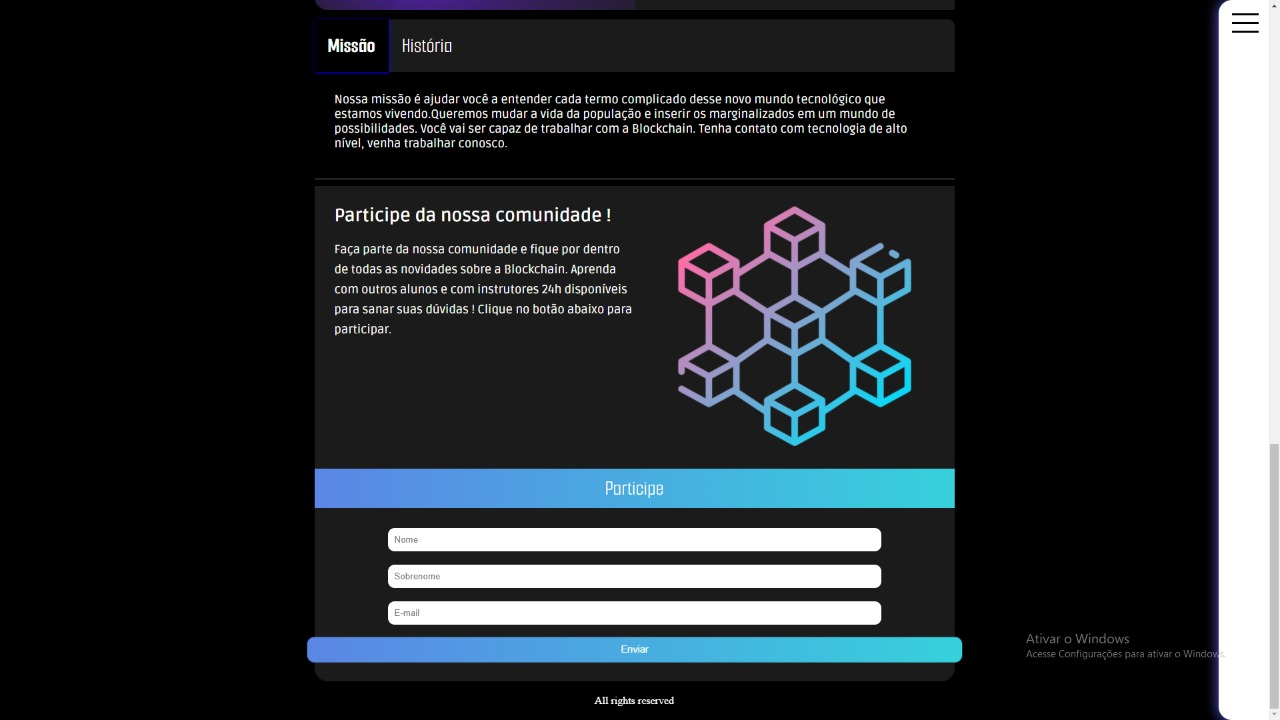
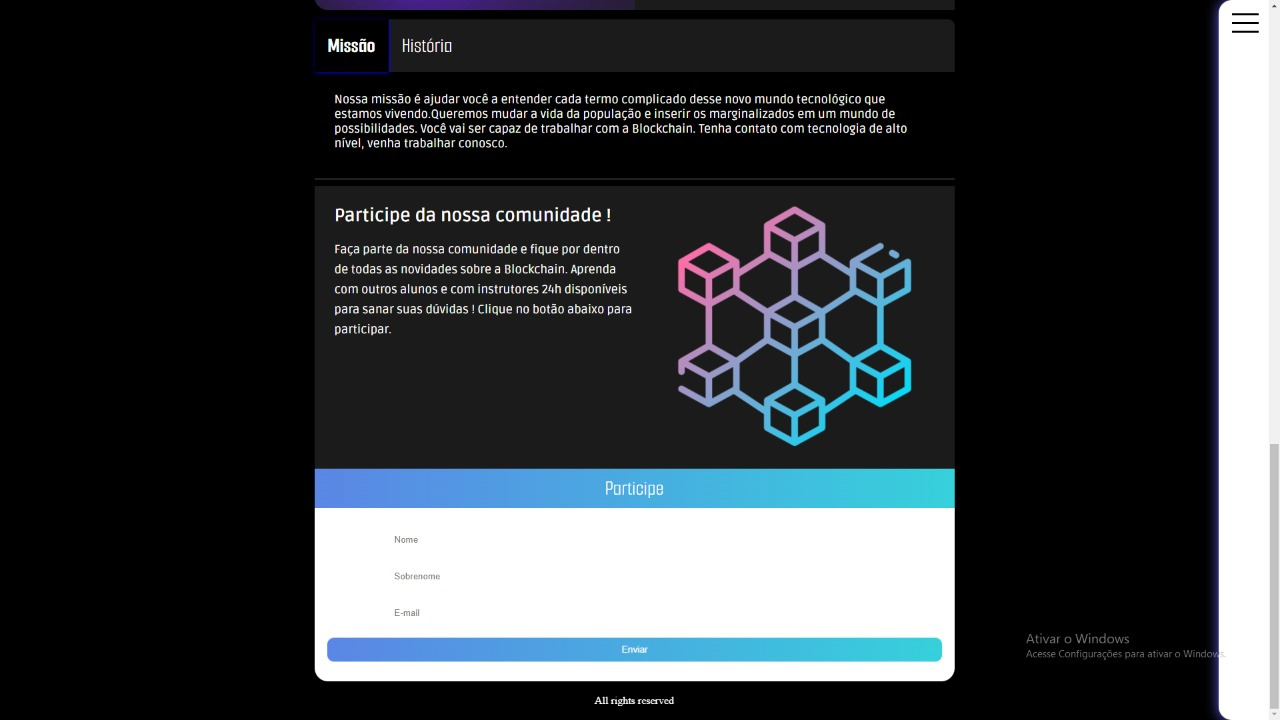
Update Form
background-color: white
classList toggle - button to (border-radius)
classList toggle - cadastro to (display:block)

Changed region(s): [[0.2188, 0.7028, 0.75, 0.9472]]

diff --git a/style.css b/style.css
@@ -291,7 +291,8 @@ body{
     position: relative;
     background-color:rgba(46, 45, 45, 0.6);
    
-    
+    border-bottom-left-radius: 20px;
+    border-bottom-right-radius: 20px;
 
 
 }
@@ -362,6 +363,13 @@ body{
     
     cursor: pointer;
 
+    border-bottom-left-radius: 20px;
+    border-bottom-right-radius: 20px;
+ 
+
+}
+#participe_btn.subscribe{
+    border-radius:0px;
 }
 
 #footer{
@@ -485,7 +493,7 @@ body{
 
     width:100%;
     text-align: center;
-    background-color:rgba(46, 45, 45, 0.6);
+    background-color:white;
 
    
    transition: all 1s;
@@ -502,17 +510,15 @@ input{
     border:none;
     margin-bottom:20px;
 
-    border-radius: 10px;
-
-    color:white;
+   
     
     
 }
 input:focus{
    
    outline: none;
-   border-bottom: 2px solid rgb(255, 0, 0);
-   color:white;
+   border-bottom: 2px solid rgb(2, 90, 255);
+   
    
 }
 

diff --git a/script.js b/script.js
@@ -67,5 +67,6 @@ setInterval(function(){
 document.getElementById("participe_btn").onclick = function(){
 
     document.getElementById("formulario").classList.toggle("subscribe");
+    this.classList.toggle("subscribe") ; 
     
 }
